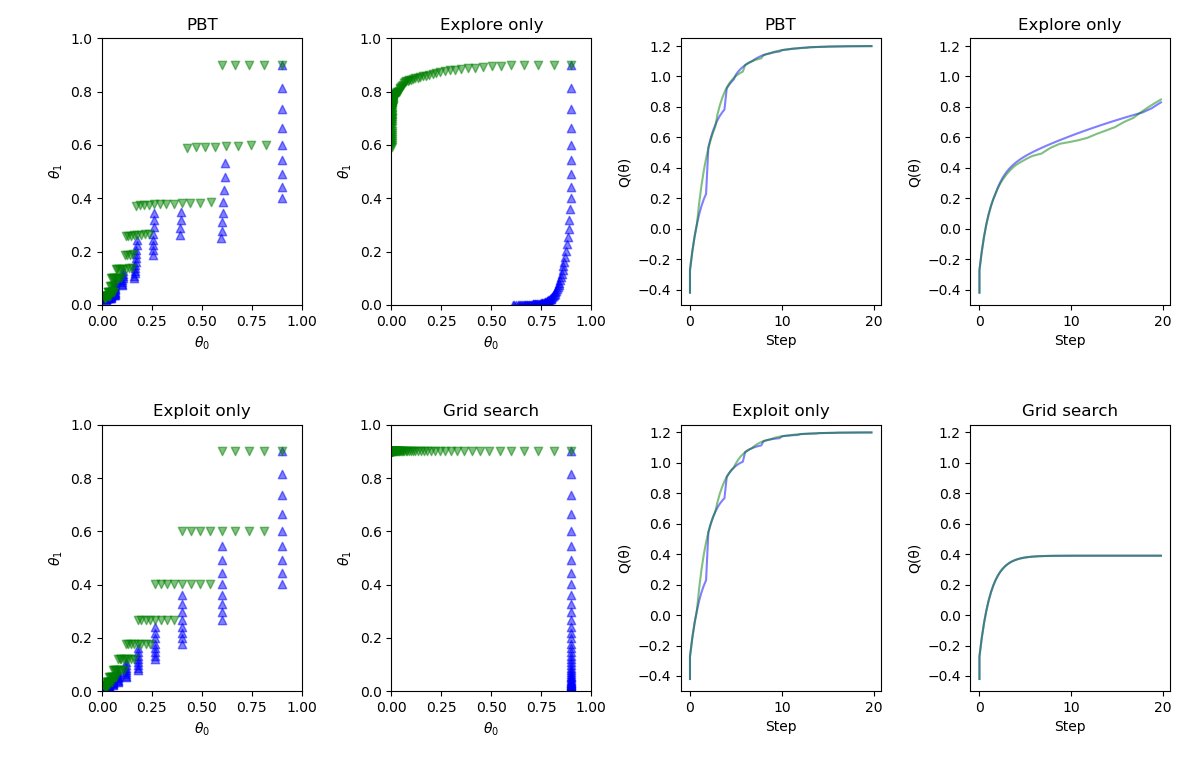
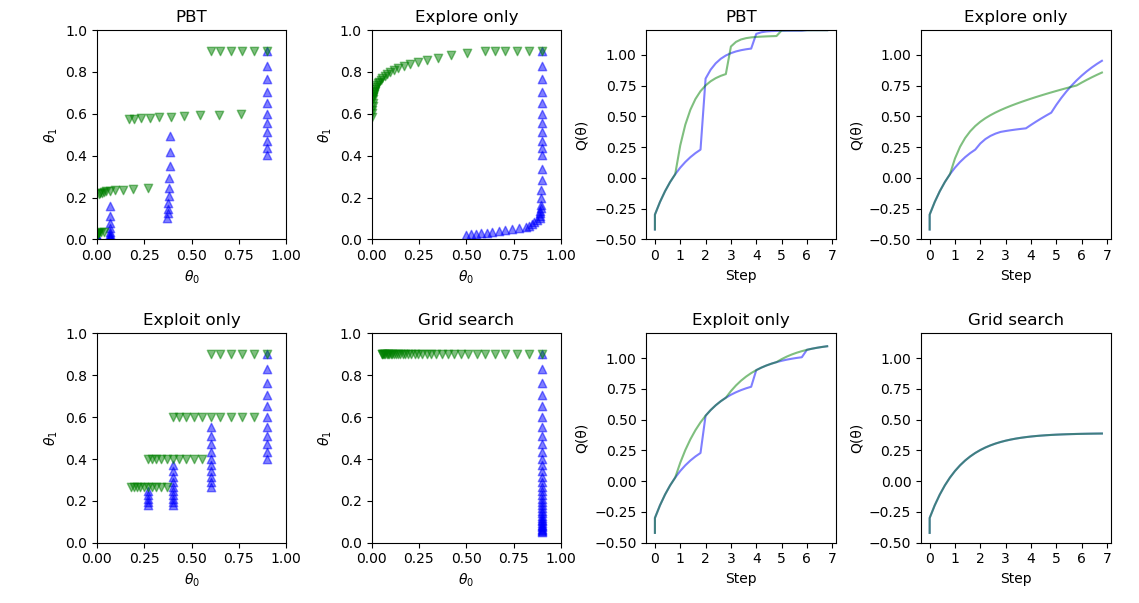
fine tuning to match Fig 2

diff --git a/figure2/figure2.py b/figure2/figure2.py
@@ -57,11 +57,12 @@ def train_figure2(worker, steps, theta, h, optimizer, theta_update, theta_update
 
 
 def make_plot(title, plotnum, poplist):
-    plt.subplot(plotnum + 2)
+    ax = plt.subplot(plotnum + 2)
     plt.title(title)
     plt.xlabel("Step")
     plt.ylabel("Q(θ)")
-    plt.ylim(-0.5, 1.25)
+    plt.ylim(-0.5, 1.2)
+    plt.xticks(np.arange(7 + 1))
     for m, c, marker in zip(range(len(poplist[0])), ['b', 'g', 'r'], ['^', 'v', 'o']):
         plt.plot([w[m][3] for w in poplist],
                  [w[m][0] for w in poplist], c=c, alpha=0.5)
@@ -95,18 +96,18 @@ def main():
             (True, False, "Exploit only", 245),
             (False, False, "Grid search", 246)
         ]:
-            population = PBT(pop=[Worker([0.0, 1.0], [0.9, 0.9], perturbscale=[0.9, 1.1], jitter=0.1),
-                                  Worker([1.0, 0.0], [0.9, 0.9], perturbscale=[0.9, 1.1], jitter=0.1)])
+            population = PBT(pop=[Worker([0.0, 1.0], [0.9, 0.9], perturbscale=[0.5, 2.0], jitter=0.5, cliprange=(0, 100)),
+                                  Worker([1.0, 0.0], [0.9, 0.9], perturbscale=[0.5, 2.0], jitter=0.5, cliprange=(0, 100))])
             population.testpop(eval_figure2)
             poplist = [[[w.score, w.nn[0], w.nn[1], 0]
                         for w in population.pop]]
 
-            for step in range(20):
+            for step in range(0, 7):
 
-                train_steps = 4
+                train_steps = 5
                 for substep in range(train_steps):
                     for worker in population.pop:
-                        train_figure2(worker, 5, theta, h, optimizer,
+                        train_figure2(worker, 4, theta, h, optimizer,
                                       theta_update, theta_update_placeholder)
                     poplist.append([[eval_figure2(w), w.nn[0], w.nn[1], (step + substep / float(train_steps))]
                                     for w in population.pop])
